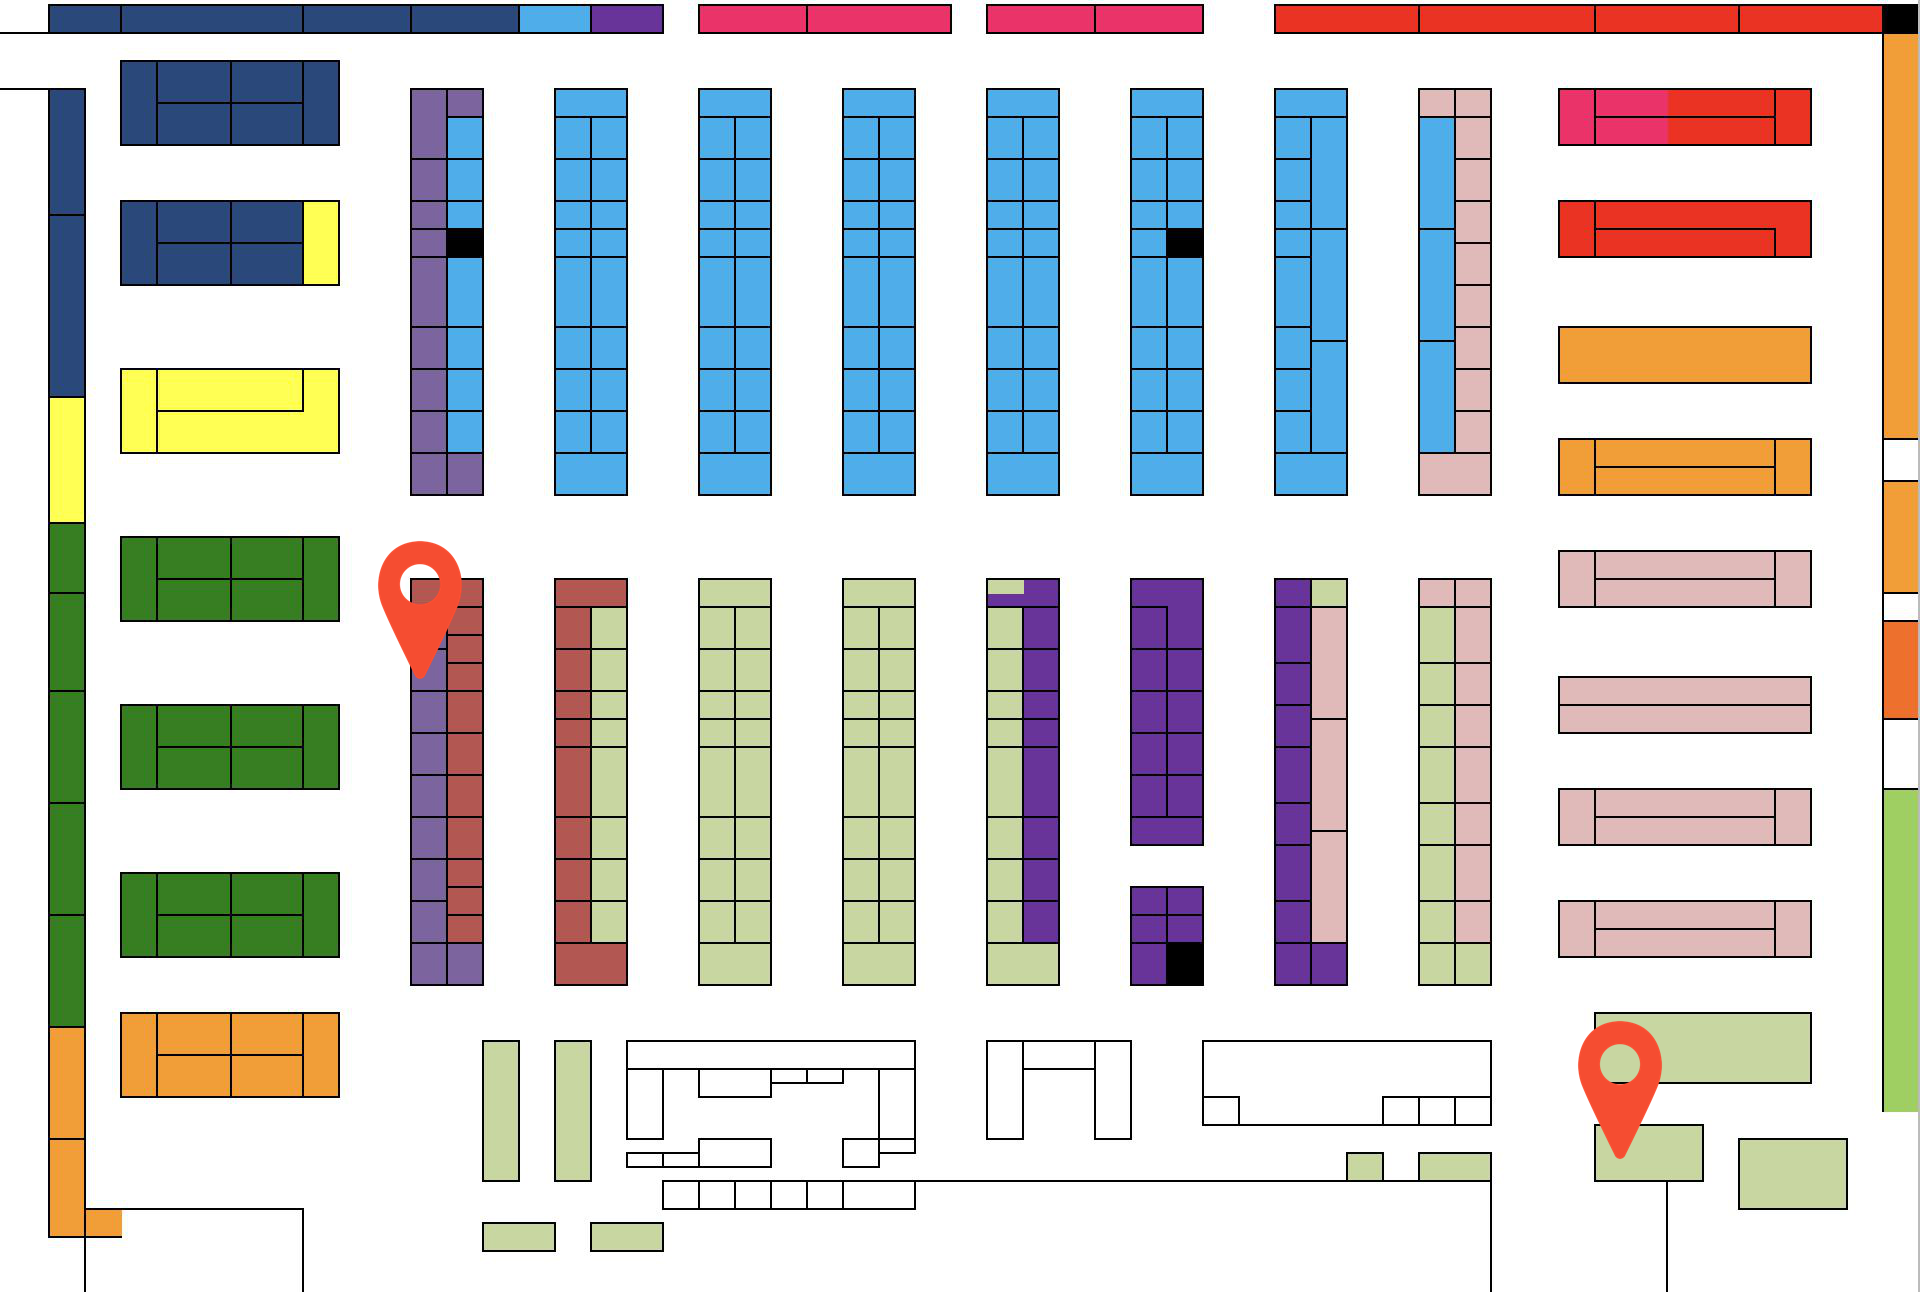
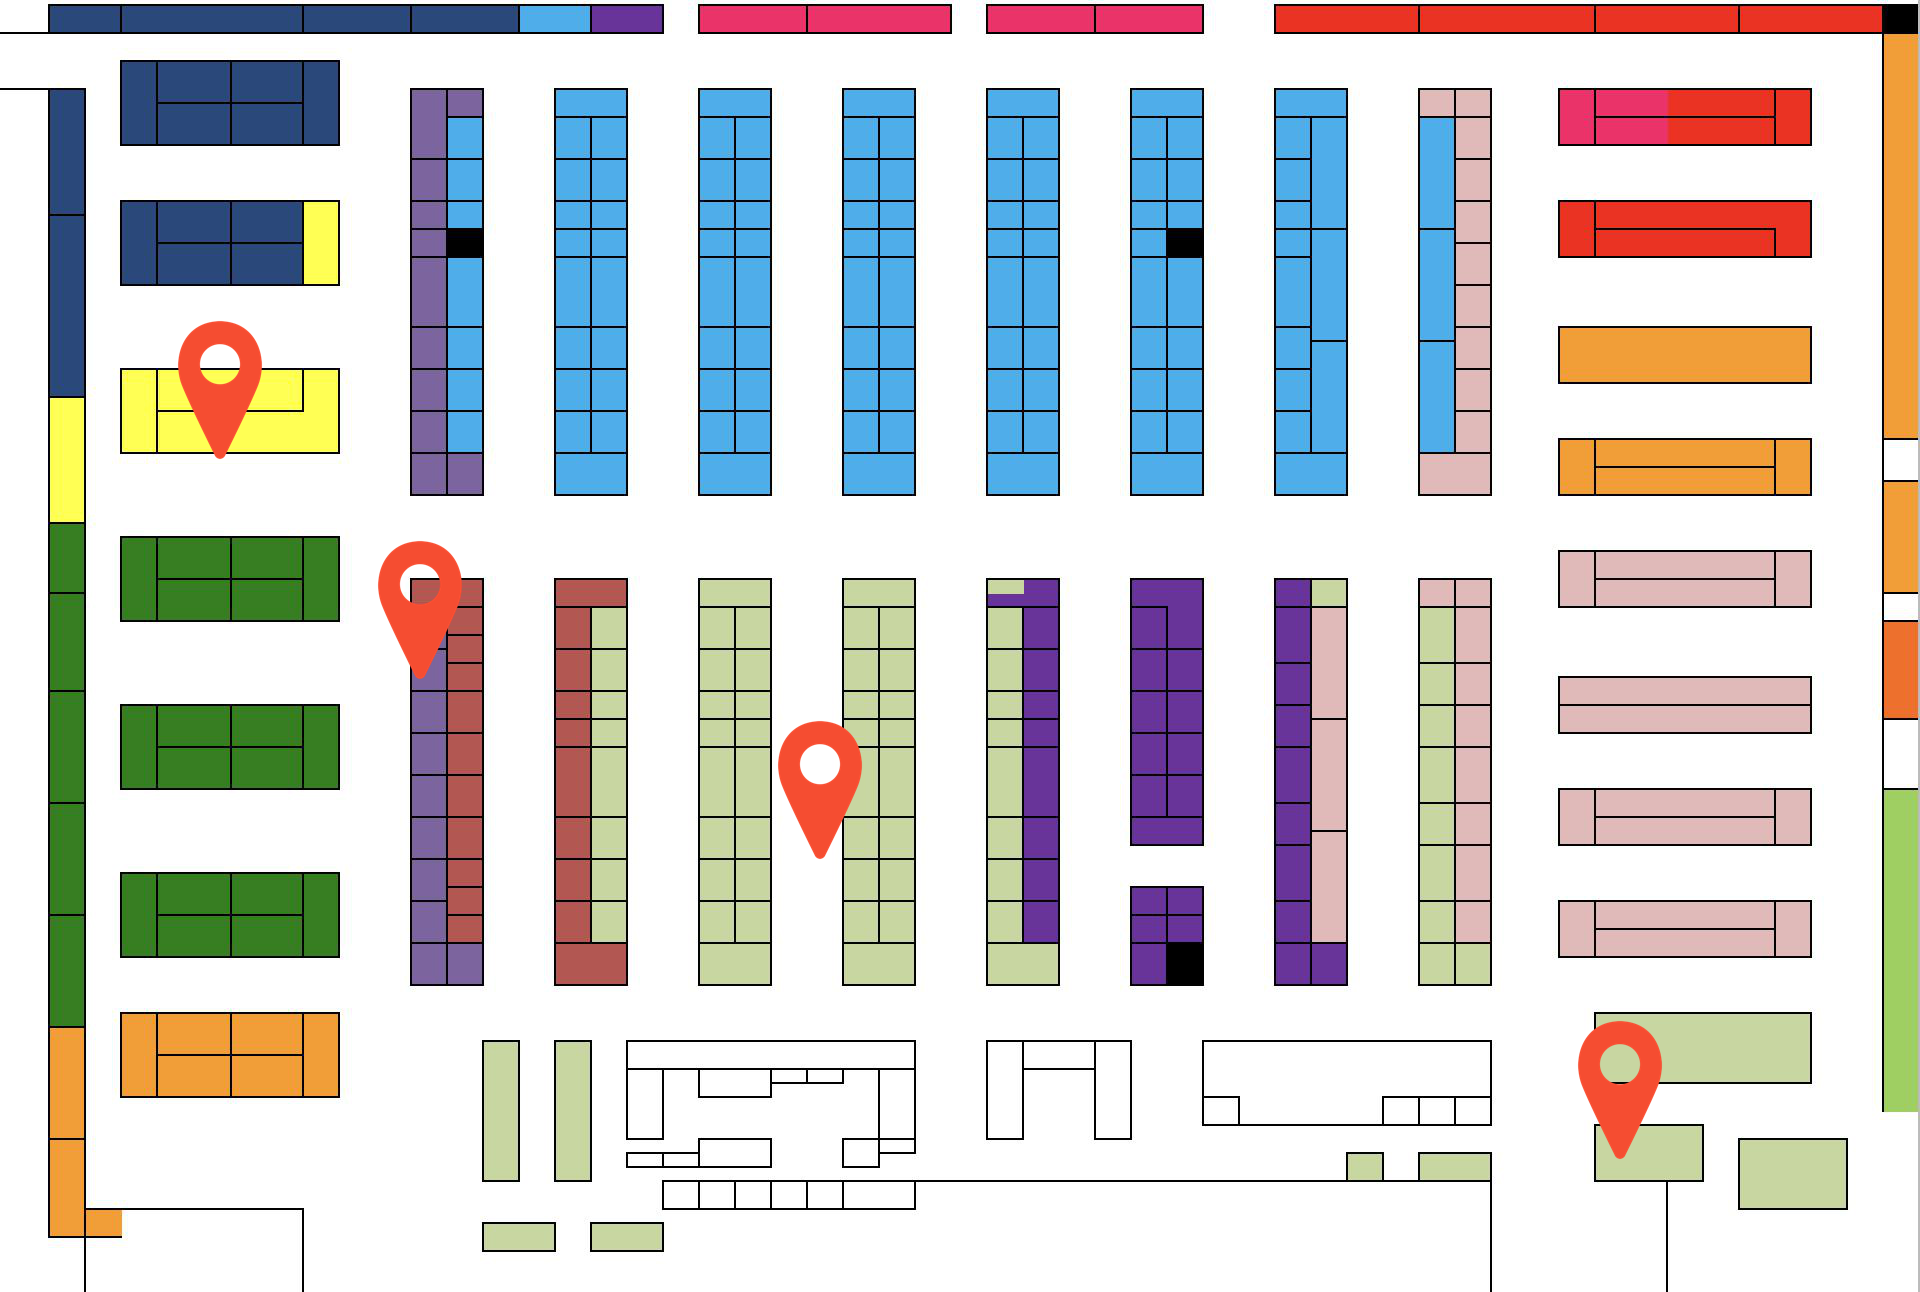
h-yki commit

Changed region(s): [[0.4062, 0.5573, 0.4688, 0.6811], [0.0938, 0.2477, 0.1562, 0.3715]]

diff --git a/marketmap_back/main.py b/marketmap_back/main.py
@@ -27,6 +27,7 @@ def map():
     base = Image.open(base_path)
     logo = Image.open(logo_path)
 
+    #base_w, base_h = base.size =>1920, 1292
     logo_w, logo_h  = logo.size
 
     scale = 0.3
@@ -34,8 +35,8 @@ def map():
 
     data = [["醤油", "調味料", 300, 520],
             ["牛肉", "肉", 1500, 1000],
-            ["マヨネーズ", "調味料", 2300, 1300], #商品名,カテゴリ名,x座標,y座標
-            ["鮭", "魚", 2000, 700]]
+            ["マヨネーズ", "調味料", 100, 300], #商品名,カテゴリ名,x座標,y座標
+            ["鮭", "魚", 700, 700]]
 
     n = 4 #表示件数
 
